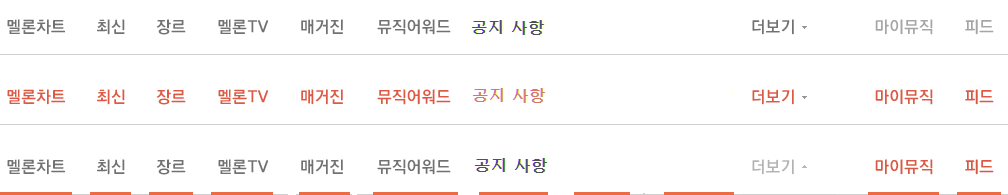
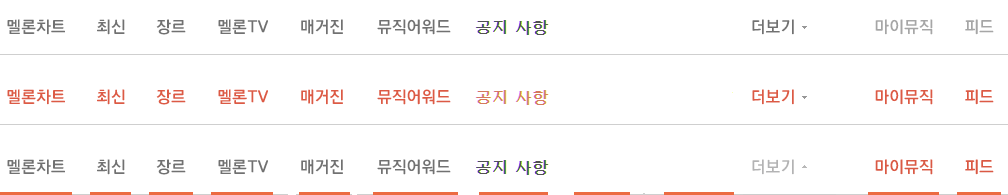
09/28 이수범 top.jsp 공지사항 css수정

Changed region(s): [[0.4613, 0.8, 0.5536, 0.8923], [0.4613, 0.4308, 0.5536, 0.5538], [0.4613, 0.0923, 0.5536, 0.1846]]

diff --git a/WebContent/Styles/css/b0oedst30j.css b/WebContent/Styles/css/b0oedst30j.css
@@ -4838,8 +4838,8 @@ body.scroll_no #id_box .expn .id_logout .btn_icon.my_simple {
 
 #gnb_menu ul li .cur_menu .menu07 {
 	display: block;
-	width: 56px;
-	background-position: -477px 0
+	width: 75px;
+	background-position: -475px 0
 }
 
 #gnb_menu ul li .cur_menu .menu08 {
@@ -4922,7 +4922,7 @@ body.scroll_no #id_box .expn .id_logout .btn_icon.my_simple {
 }
 
 #gnb_menu ul li a.cur_menu:hover .menu07 {
-	background-position: -477px -70px
+	background-position: -475px -70px
 }
 
 #gnb_menu ul li.on a .menu07 {
